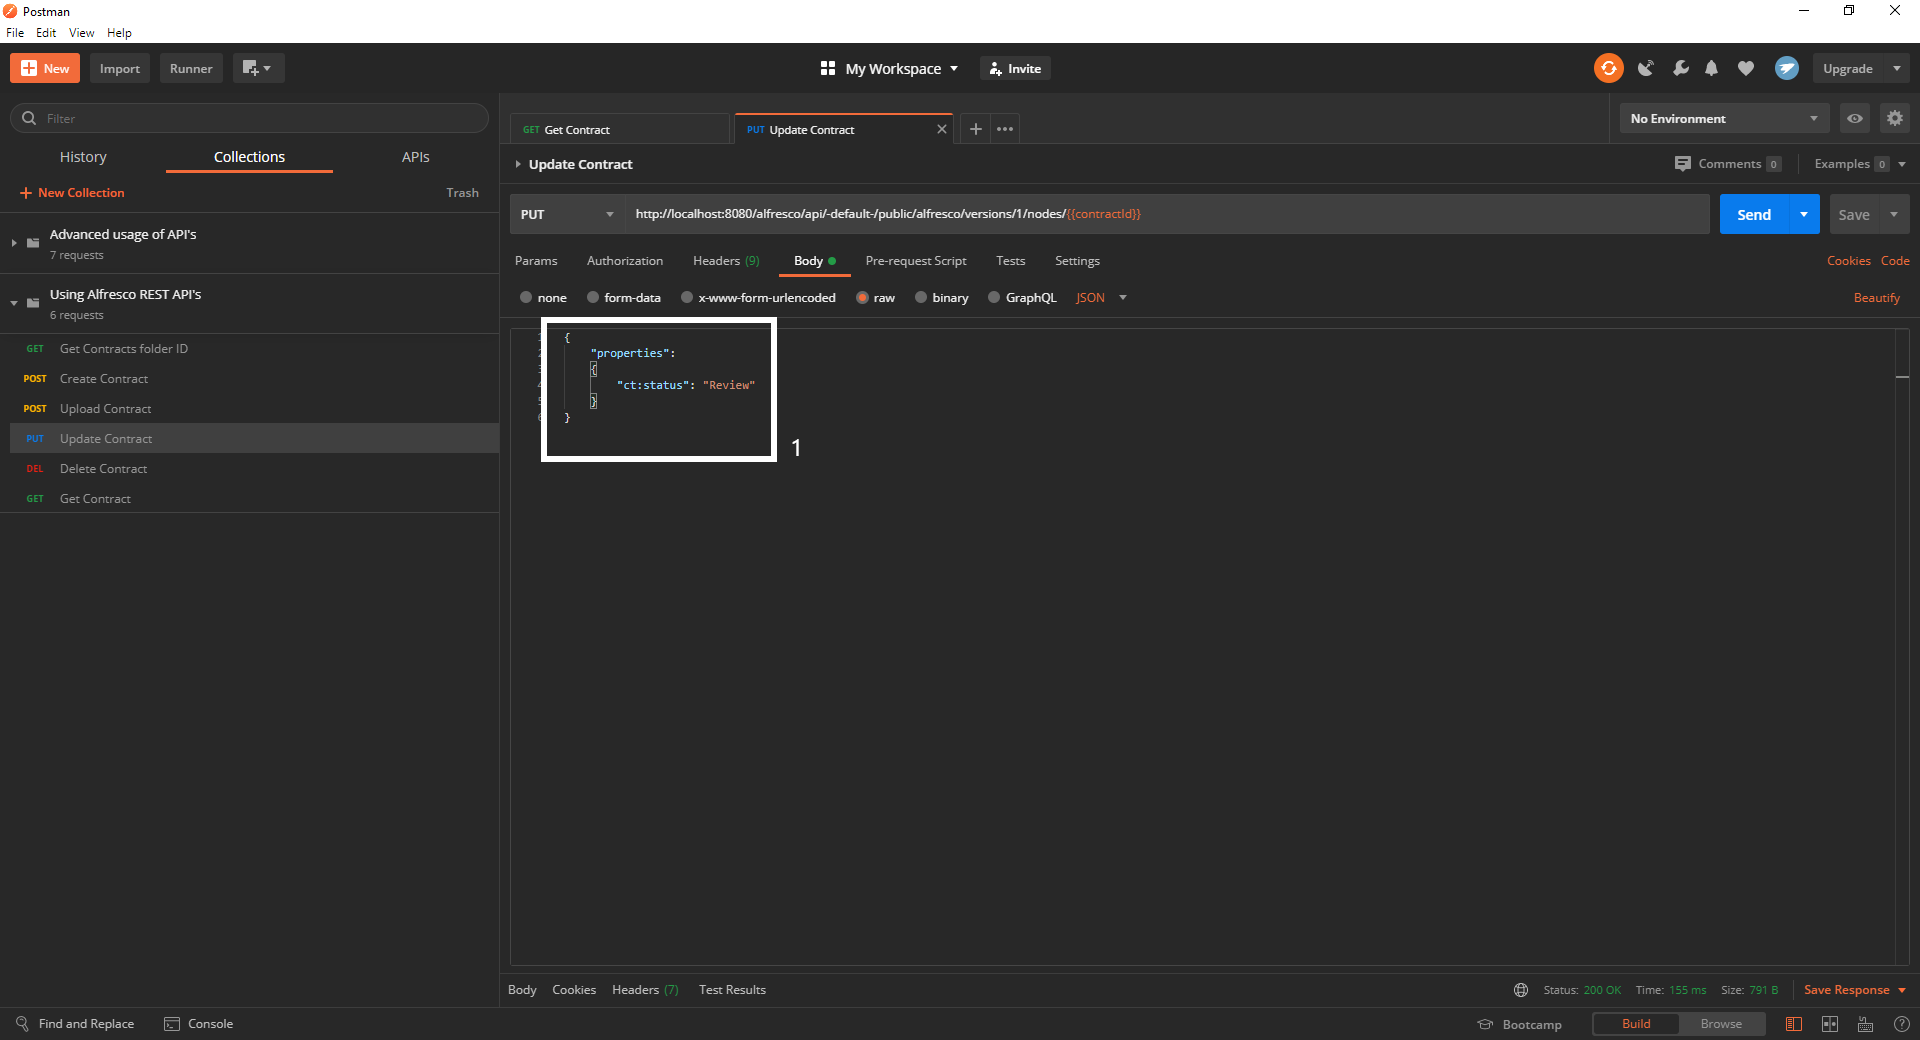
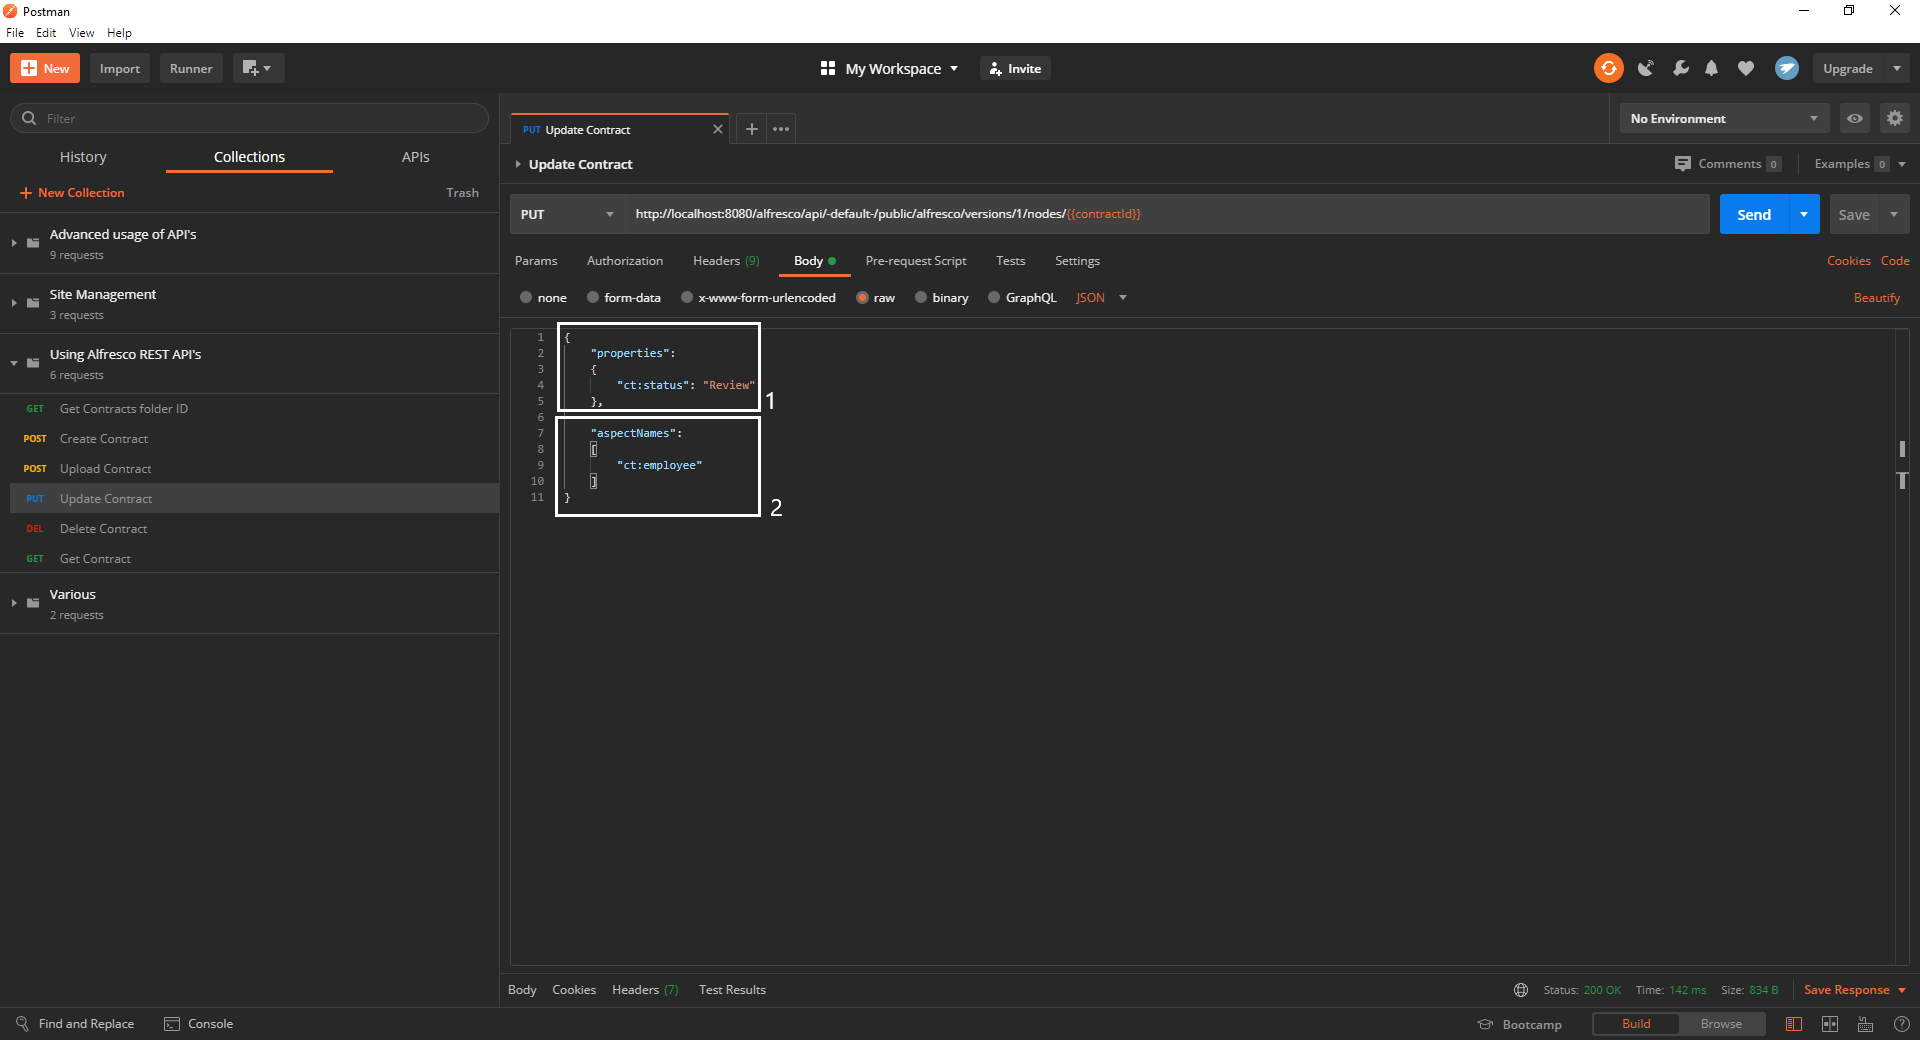
edited introduction

diff --git a/docs/api-tutorial/introduction.md b/docs/api-tutorial/introduction.md
@@ -129,12 +129,17 @@ It could have three values:
 
 Currently the status of the contract you created is set to “New”, let’s set it to “Review”.
 
-To change the status you will send a json body with the properties you want to change. It is important to give the full and exact path to your property. In this case it would be “properties -> status”.
+To change the status you will send a json body with the properties you want to change. It is important to give the full and exact path to your property. 
 If you are unsure where a property is stored you can execute the last  request and look it up in the response body:
 
 ![changeStatus](../images/introduction/changeStatus.png)
 
-In the “Update Contract” request the body is already filled out with the correct path(1) and if you execute it your response body(2) will look like this:
+In this case it would be “properties -> status”.  
+Also let’s add the “Employee” aspect to your folder.
+As an aspect is basically nothing more than a property of a node we can put it in the request body with the “Status” update as well.
+Every aspect of a node is stored in an array called “aspectNames”, so all you have to do is update that array(2).
+Now that you know what your request body is made of, let’s have a look at it and the returned response body, where you can find your updated properties: 
+
 
 ![updateContractBody](../images/introduction/updateContractBody.png)
 
